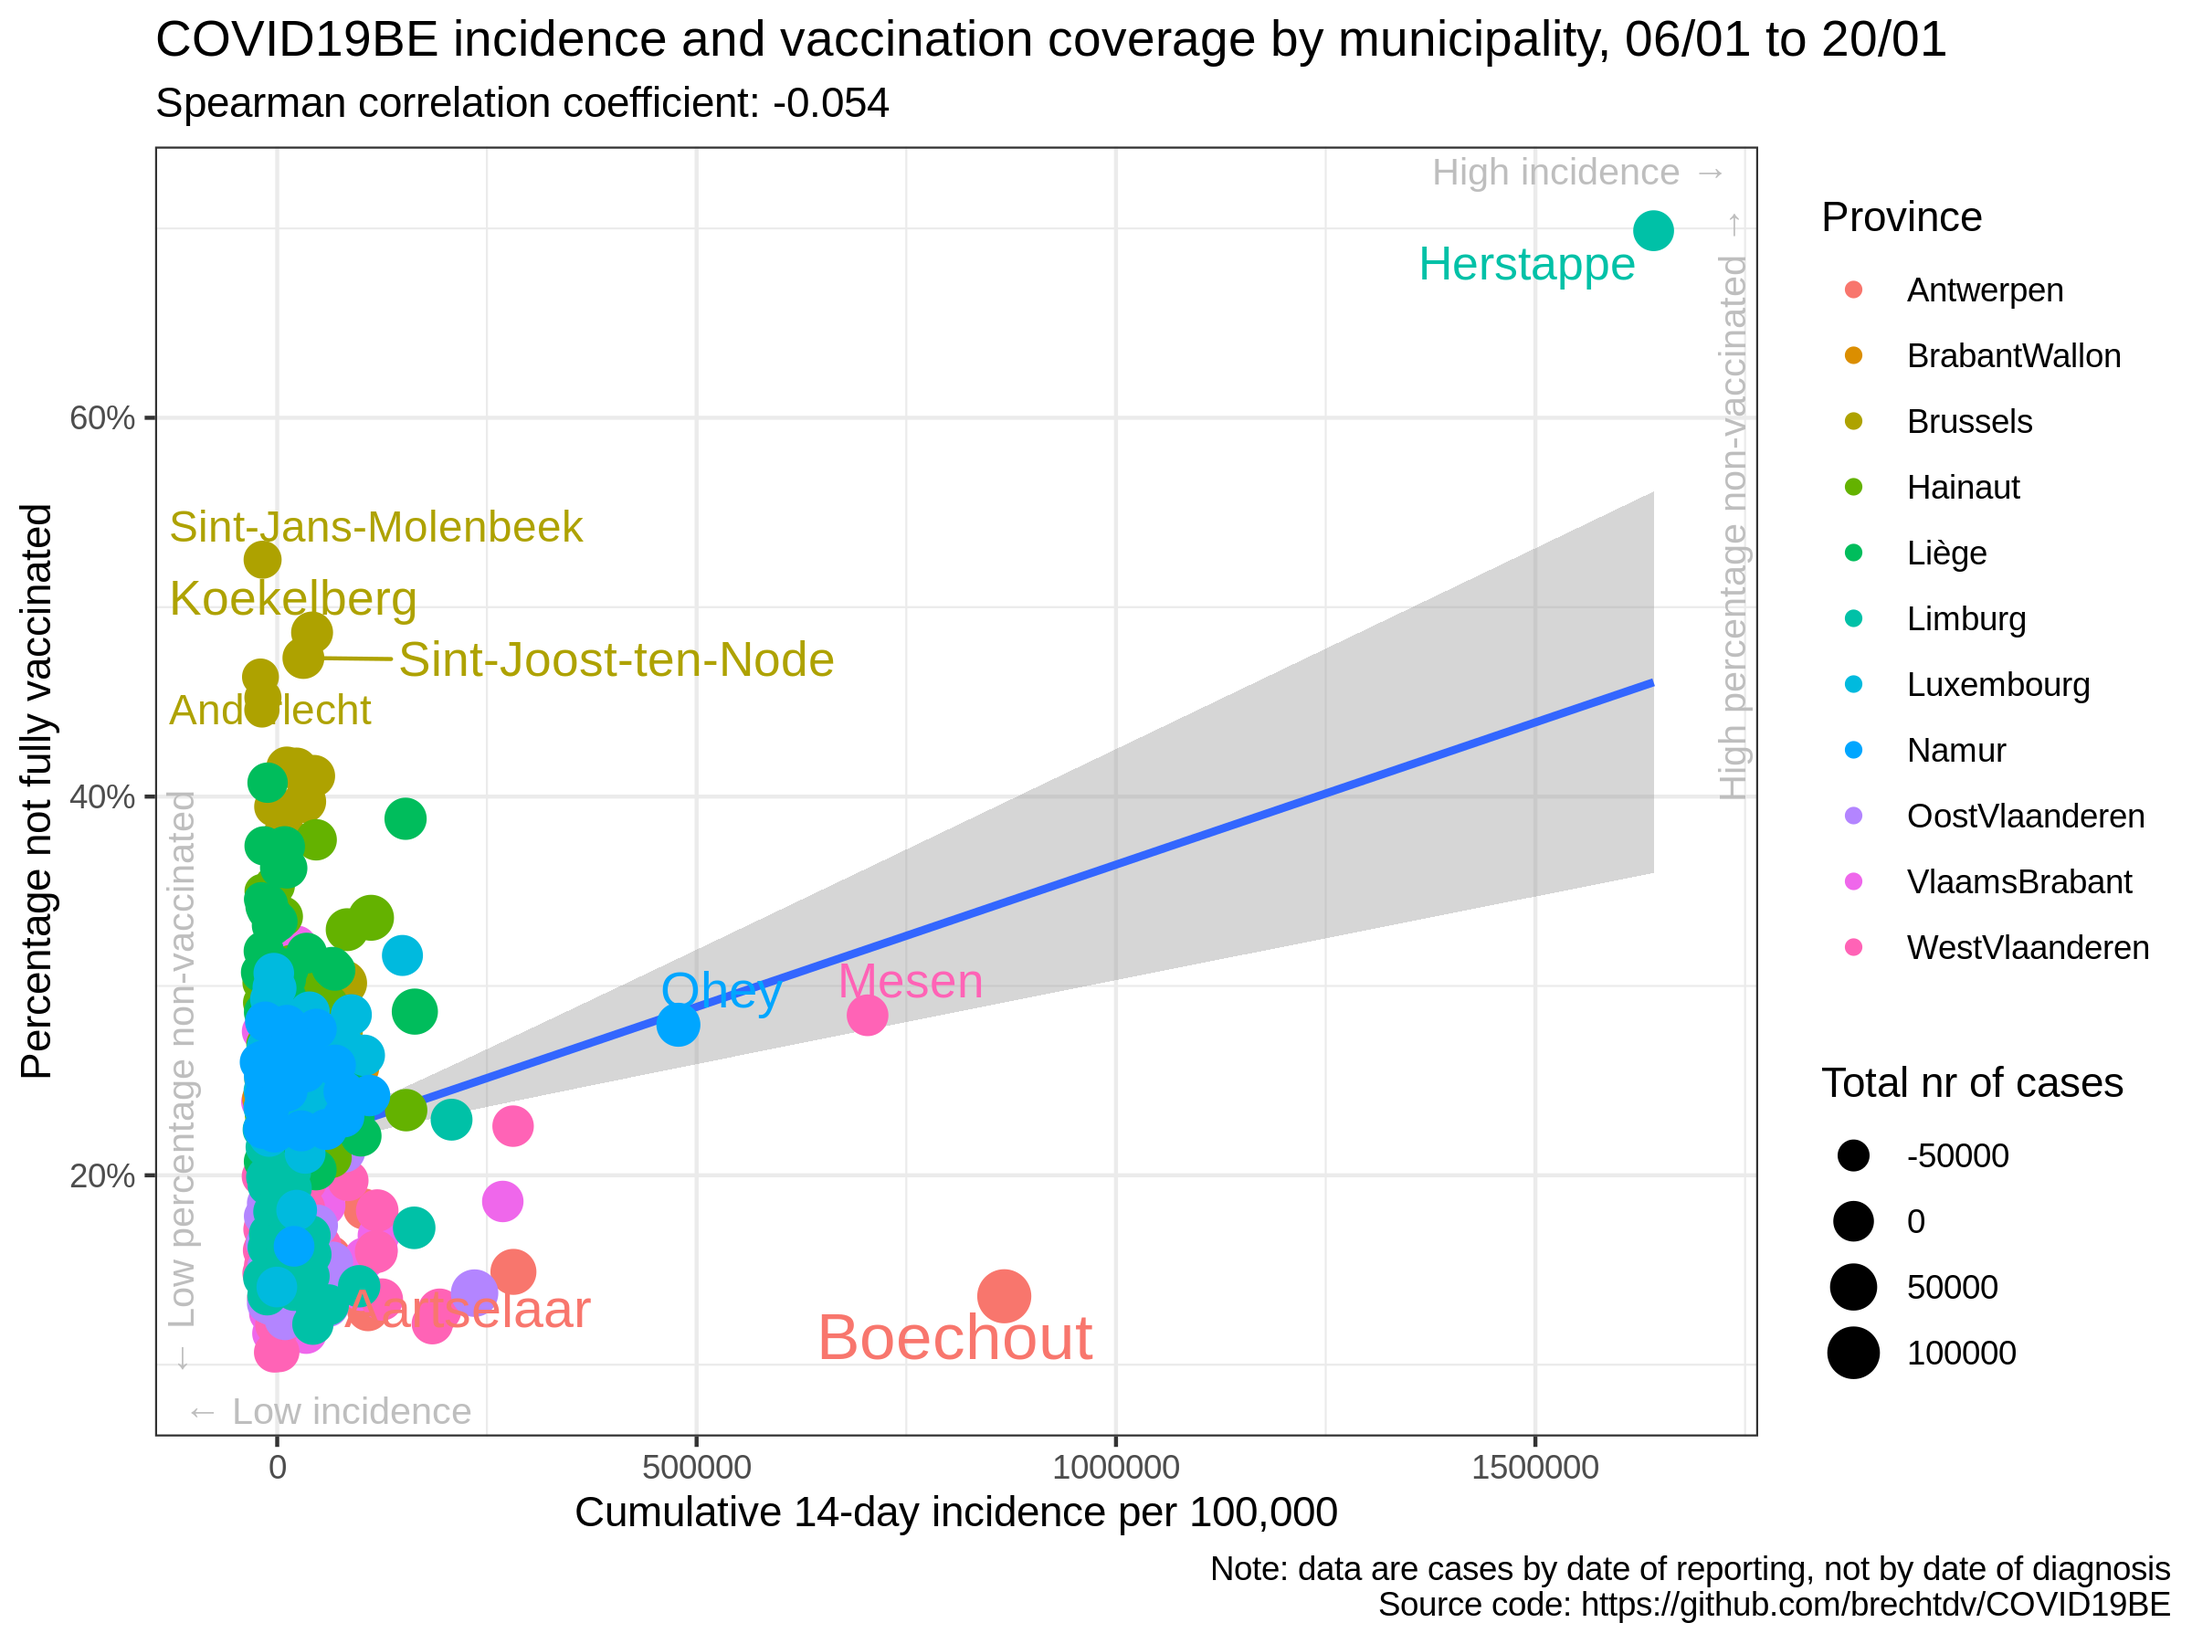
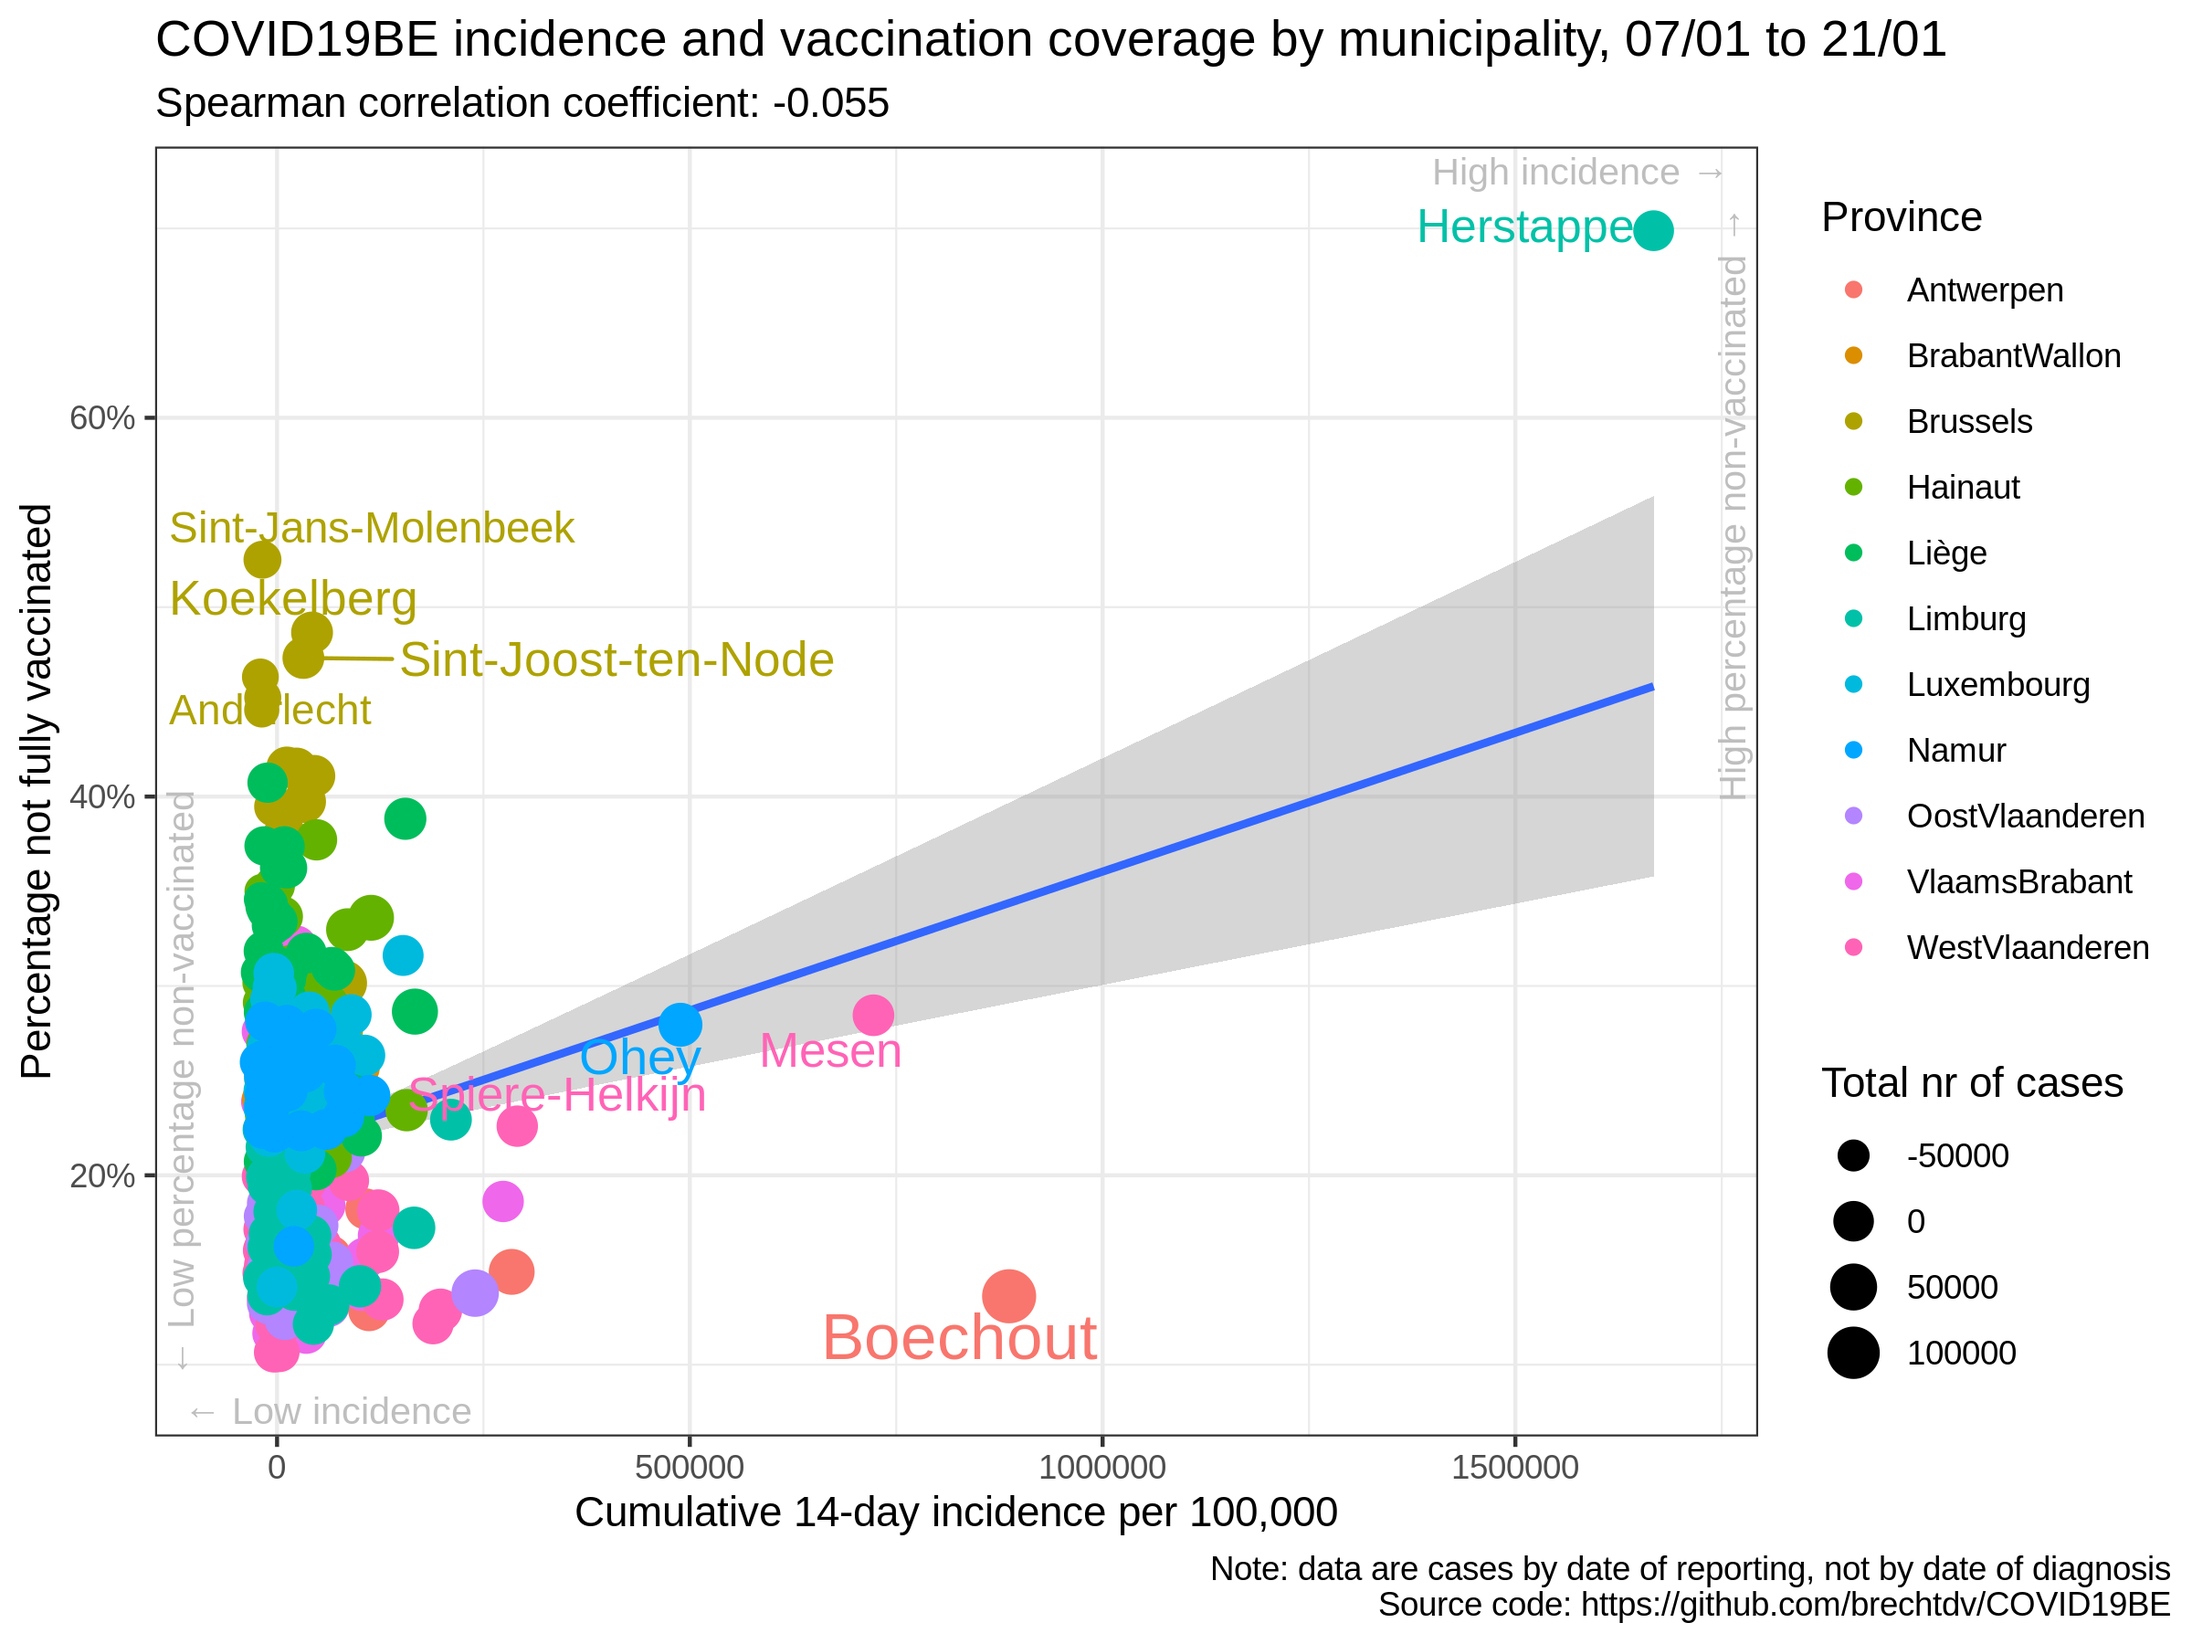
update situation

diff --git a/vaccination/README.md b/vaccination/README.md
@@ -17,35 +17,35 @@
 
 |                | estimate.rho | p.value |
 | :------------- | -----------: | ------: |
-| Antwerpen      |      \-0.180 |   0.140 |
+| Antwerpen      |      \-0.179 |   0.141 |
 | BrabantWallon  |        0.249 |   0.209 |
 | Brussels       |      \-0.354 |   0.137 |
-| Hainaut        |      \-0.029 |   0.815 |
-| Liège          |      \-0.153 |   0.164 |
+| Hainaut        |      \-0.028 |   0.817 |
+| Liège          |      \-0.155 |   0.159 |
 | Limburg        |      \-0.225 |   0.152 |
-| Luxembourg     |        0.110 |   0.476 |
-| Namur          |        0.128 |   0.443 |
+| Luxembourg     |        0.111 |   0.471 |
+| Namur          |        0.123 |   0.461 |
 | OostVlaanderen |      \-0.271 |   0.037 |
-| VlaamsBrabant  |      \-0.218 |   0.081 |
-| WestVlaanderen |        0.203 |   0.107 |
-| Belgium        |      \-0.054 |   0.193 |
+| VlaamsBrabant  |      \-0.225 |   0.071 |
+| WestVlaanderen |        0.205 |   0.104 |
+| Belgium        |      \-0.055 |   0.183 |
 
 ### Correlation cumulative incidence vs booster rate
 
 |                | estimate.rho | p.value |
 | :------------- | -----------: | ------: |
-| Antwerpen      |      \-0.082 |   0.501 |
+| Antwerpen      |      \-0.084 |   0.491 |
 | BrabantWallon  |        0.324 |   0.099 |
 | Brussels       |      \-0.411 |   0.082 |
-| Hainaut        |      \-0.015 |   0.905 |
+| Hainaut        |      \-0.014 |   0.906 |
 | Liège          |      \-0.215 |   0.050 |
 | Limburg        |      \-0.248 |   0.113 |
-| Luxembourg     |        0.009 |   0.954 |
-| Namur          |      \-0.220 |   0.183 |
-| OostVlaanderen |      \-0.233 |   0.073 |
-| VlaamsBrabant  |      \-0.280 |   0.024 |
-| WestVlaanderen |        0.151 |   0.233 |
-| Belgium        |      \-0.057 |   0.171 |
+| Luxembourg     |        0.006 |   0.971 |
+| Namur          |      \-0.225 |   0.174 |
+| OostVlaanderen |      \-0.228 |   0.080 |
+| VlaamsBrabant  |      \-0.285 |   0.022 |
+| WestVlaanderen |        0.153 |   0.228 |
+| Belgium        |      \-0.058 |   0.163 |
 
 ### Data source
 
